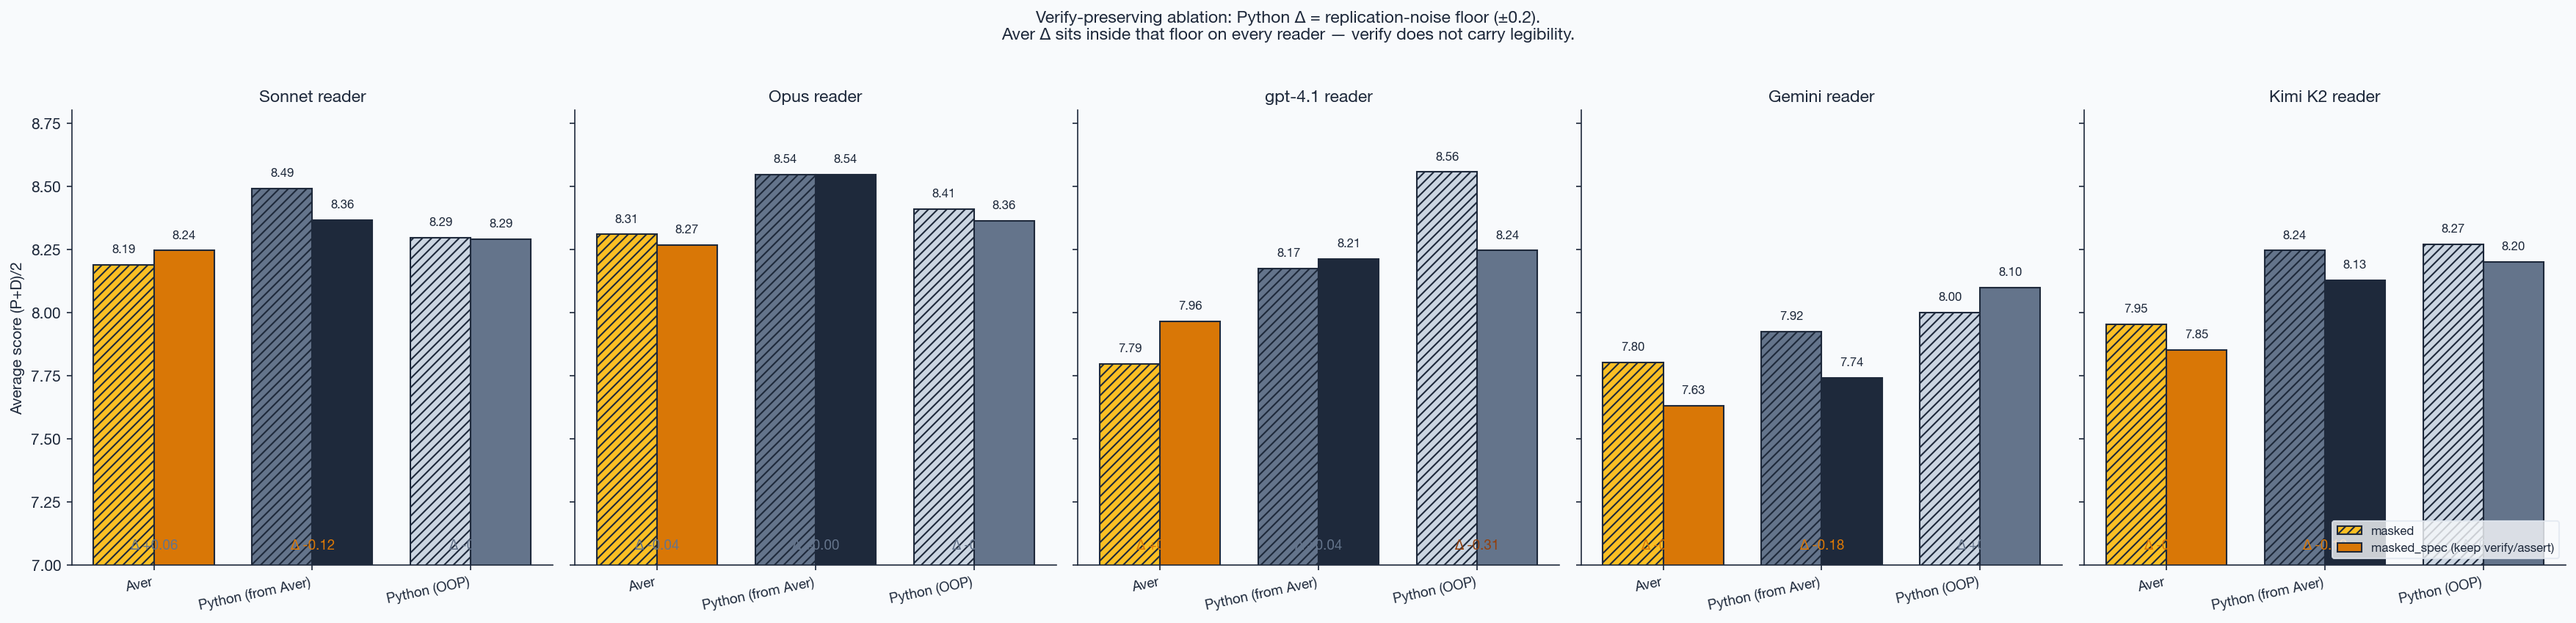
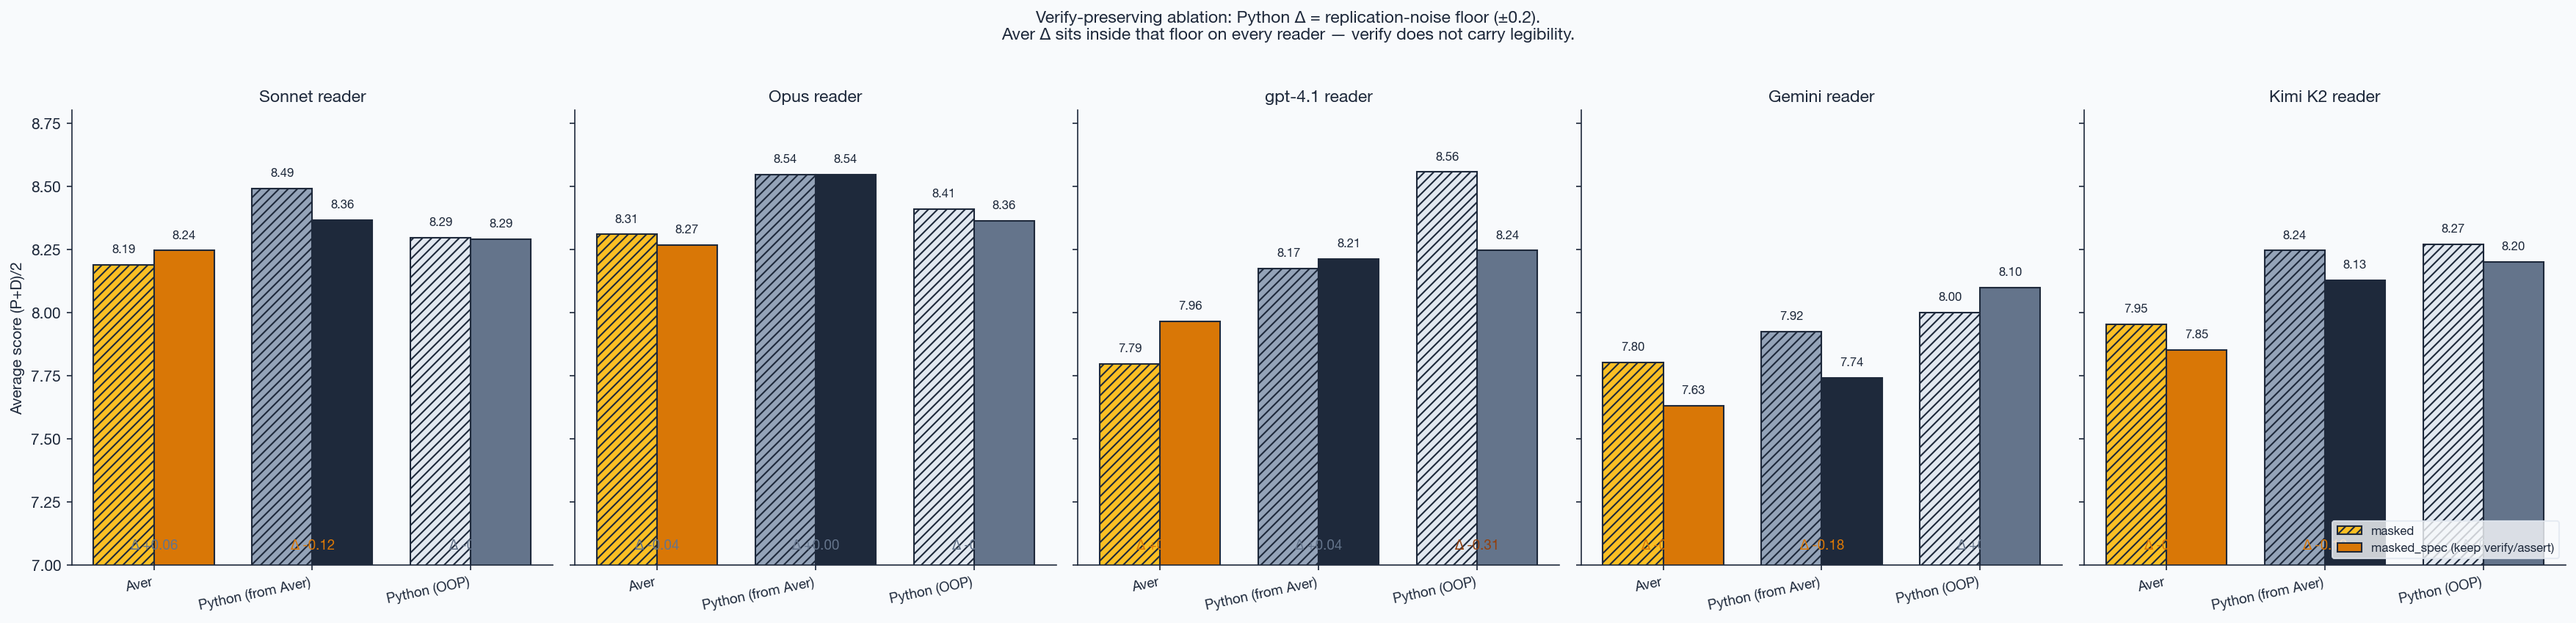
Plot: per-lang hatch patterns for masked + lighter pfa/oop shades
Previous fix made masked colors lighter but pfa/masked at #64748b was
still dark enough that SLATE hatch disappeared. Bumped pfa/masked to
#94a3b8 (slate-400) and oop/masked to #e2e8f0 (slate-200).

Also gave each lang a distinct hatch pattern so adjacent masked bars
stay distinguishable:
  aver masked: //// (diagonal right)
  pfa masked:  xxxx (crosshatch)
  oop masked:  .... (dots)

diff --git a/scripts/plot_judge_bias.py b/scripts/plot_judge_bias.py
@@ -57,8 +57,8 @@ LANG_COLORS = {"aver": AMBER, "python_from_aver": SLATE, "python_oop": SLATE_MUT
 # (hatching alone is invisible on darker colors)
 LANG_COLORS_MASKED = {
     "aver": "#fbbf24",            # light amber (pale orange, clearly distinct from AMBER)
-    "python_from_aver": "#64748b",  # slate medium
-    "python_oop": "#cbd5e1",        # very light slate
+    "python_from_aver": "#94a3b8",  # slate-400 — light enough for SLATE hatch to be visible
+    "python_oop": "#e2e8f0",        # slate-200 — very light for the muted baseline
 }
 LANG_LABELS = {"aver": "Aver", "python_from_aver": "Python (from Aver)", "python_oop": "Python (OOP)"}
 
@@ -590,9 +590,13 @@ def ranking_all_readers_ci(out_path: Path) -> None:
         cis = [ci(v) for _, v in items]
         err_lo = [m - lo for m, (lo, _) in zip(values, cis)]
         err_hi = [hi - m for m, (_, hi) in zip(values, cis)]
+        # Different hatch per lang so masked variants stay distinguishable
+        # even when two masked bars sit adjacent.
+        HATCH_BY_LANG = {"aver": "////", "python_from_aver": "xxxx", "python_oop": "...."}
         colors = [LANG_COLORS[lang] if view == "full" else LANG_COLORS_MASKED[lang]
                   for (lang, view), _ in items]
-        hatches = ["" if view == "full" else "////" for (_, view), _ in items]
+        hatches = ["" if view == "full" else HATCH_BY_LANG[lang]
+                   for (lang, view), _ in items]
 
         x_pos = np.arange(len(items))
         bars = ax.bar(x_pos, values, color=colors, edgecolor=SLATE, linewidth=1.0,

diff --git a/scripts/plot_results.py b/scripts/plot_results.py
@@ -27,8 +27,8 @@ LANG_COLORS = {
 }
 LANG_COLORS_MASKED = {
     "aver": "#fbbf24",              # light amber — visibly distinct from full AMBER
-    "python_from_aver": "#64748b",  # slate medium
-    "python_oop": "#cbd5e1",         # very light slate
+    "python_from_aver": "#94a3b8",  # slate-400 — light enough for SLATE hatch to be visible
+    "python_oop": "#e2e8f0",         # slate-200 — very light for the muted baseline
 }
 LANG_LABELS = {
     "aver": "Aver",
